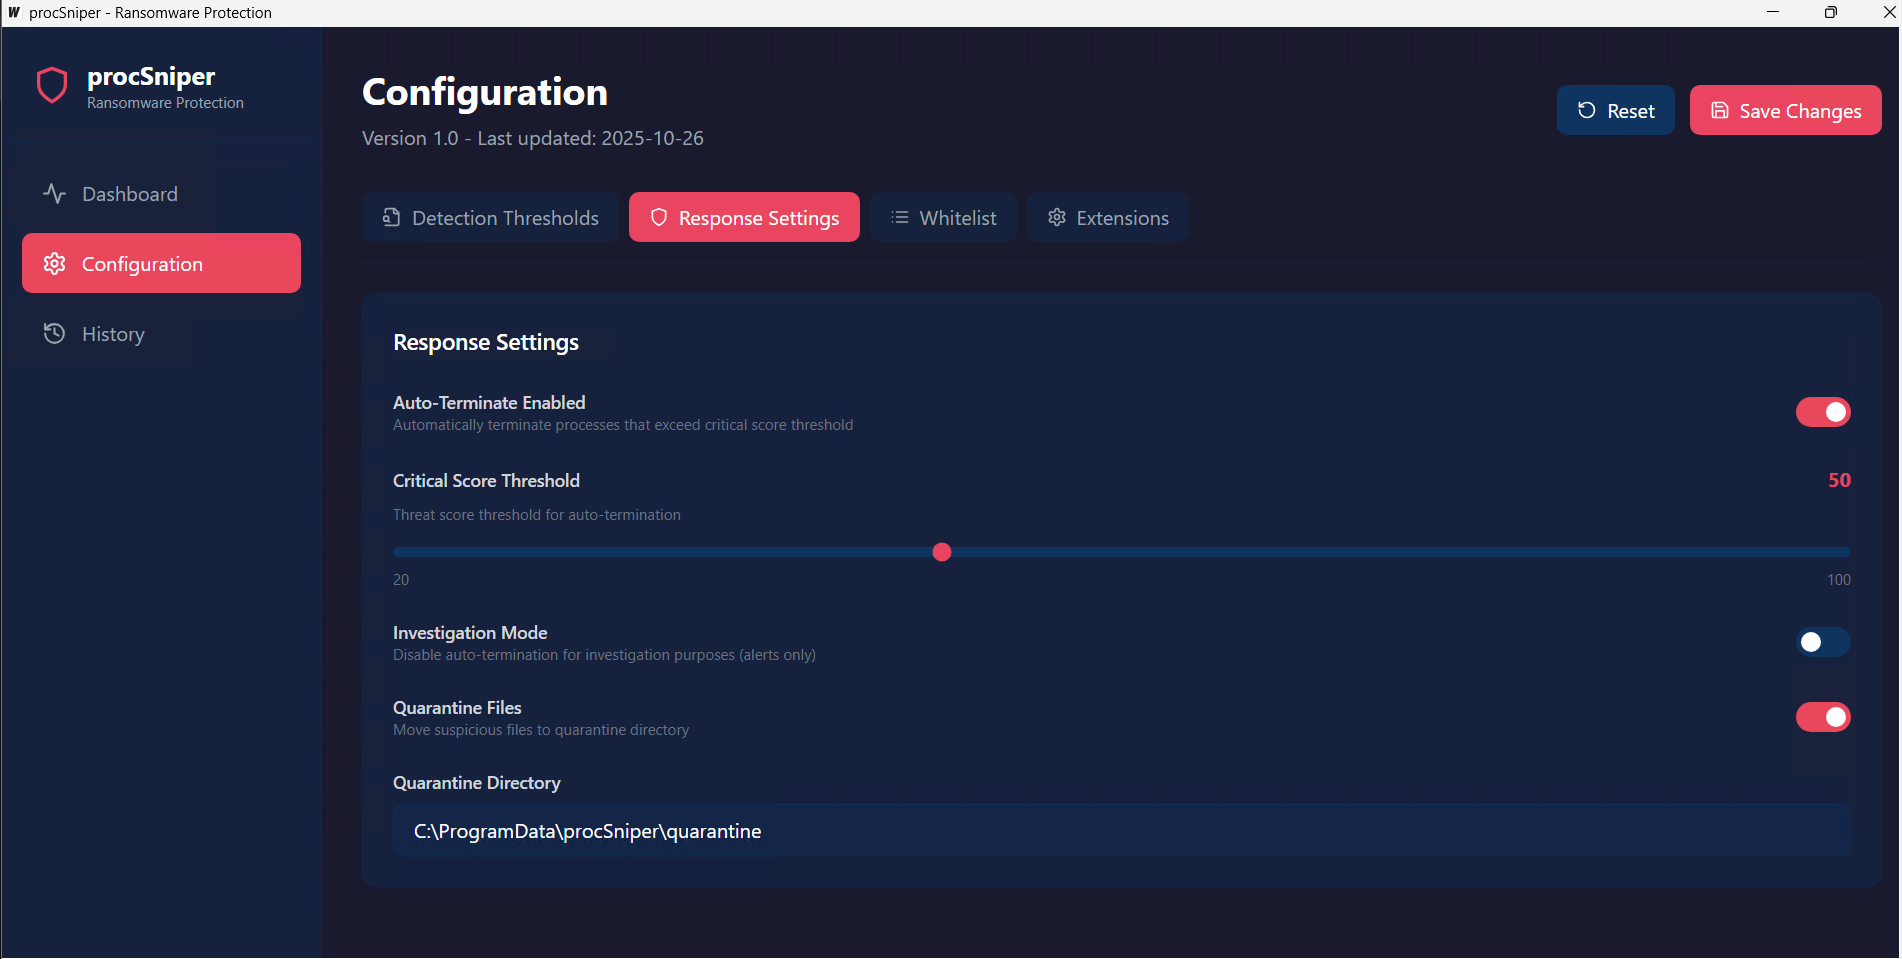
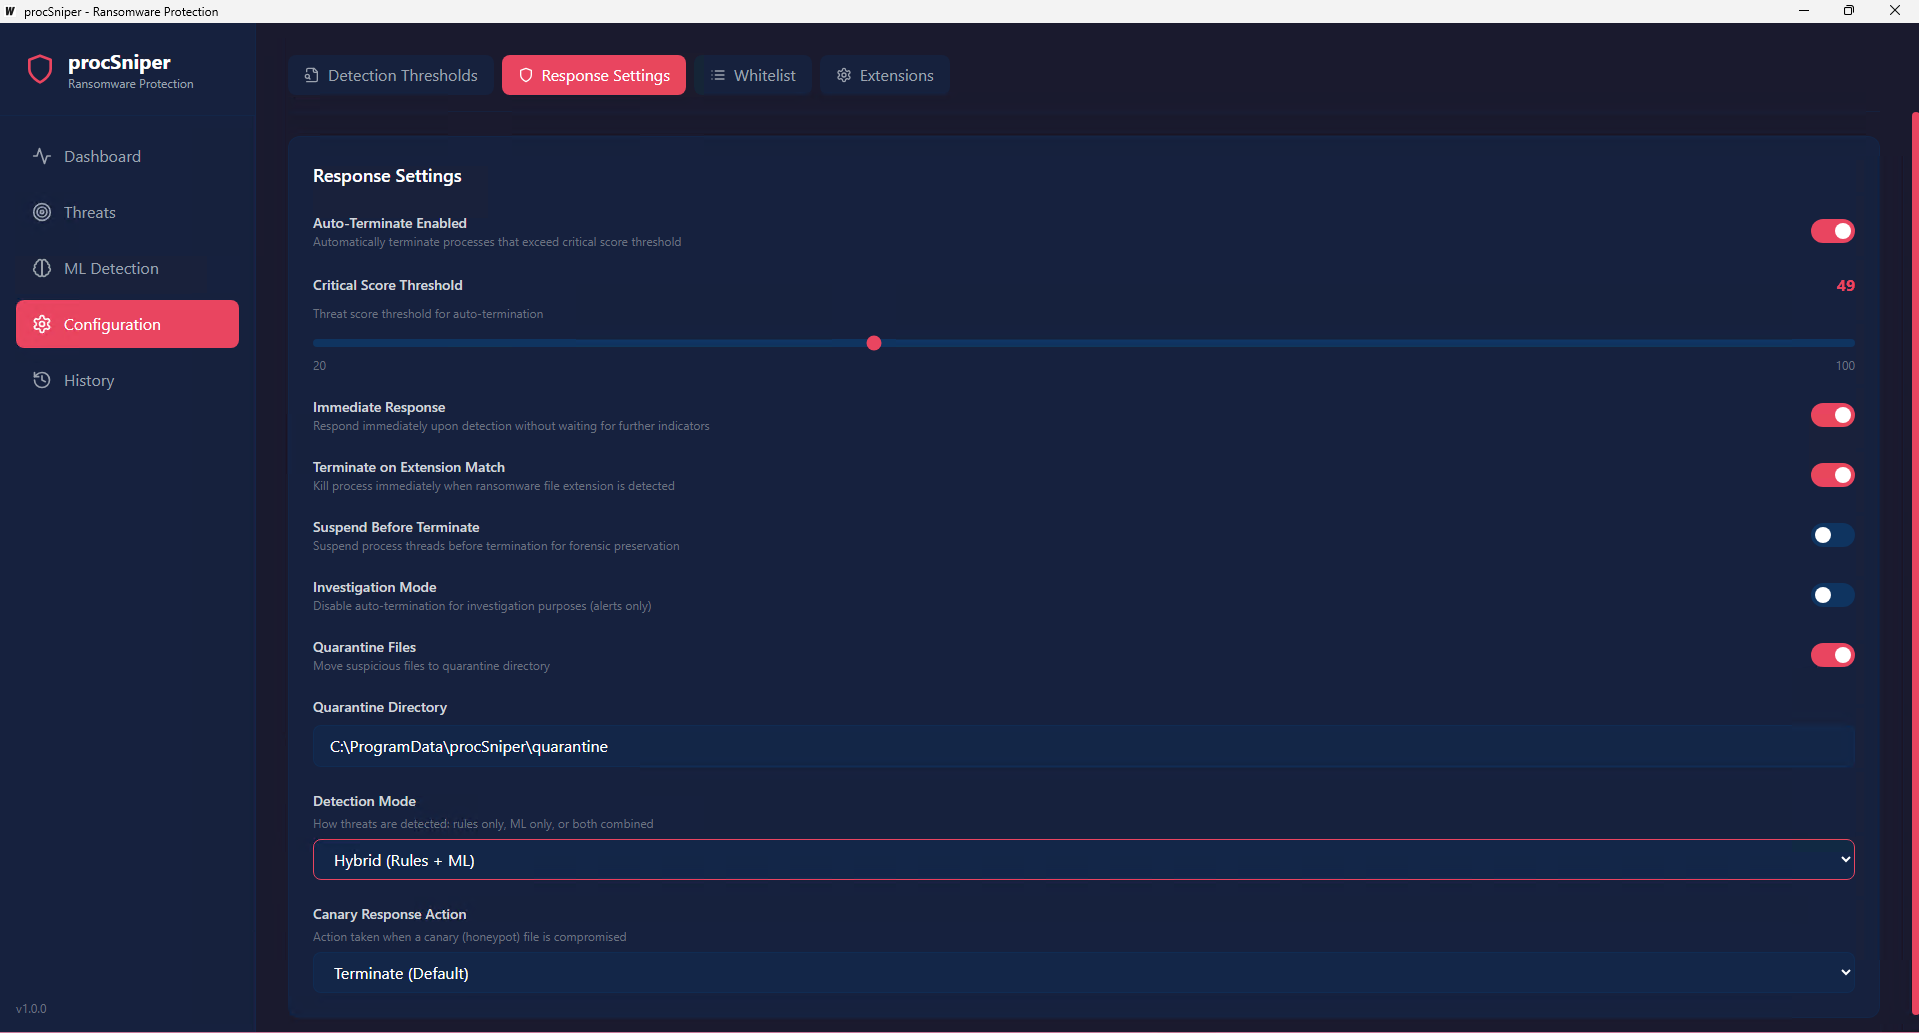
fix:add screenshot on readme

diff --git a/README.md b/README.md
@@ -2,6 +2,9 @@
 
 Windows real-time behavioral ransomware detection and response for defenders who need deterministic, low-latency decisions on high-volume endpoint telemetry.
 
+![ProcSniper Dashboard Protection](screenshots/dashboard-gui.png)
+![ProcSniper Dashboard Protection](screenshots/dashboard-gui-config.png)
+
 ## Abstract
 
 Ransomware defense is not only a classification problem. It is a timing problem where detection quality and response latency must hold under noisy, bursty endpoint telemetry, because delayed confidence often means delayed containment.
@@ -14,7 +17,10 @@ The current recommended model line (v2) is a 2-class ONNX model (`benign`, `rans
 
 For defenders, this translates into practical host-level disruption capability with explicit tradeoff controls: real-time behavioral monitoring, configurable `rules_only`/`hybrid`/`ml_only` operation, canary-backed response actions, and clear operational boundaries around low-and-slow campaigns, network-only visibility gaps, and kernel- or firmware-level threats outside current userland scope.
 
+
 ## Why ML + Hybrid Mode
+
+![ProcSniper Machine Learning](screenshots/procSniper-gui-ml.png)
 
 `hybrid` mode exists for teams that want ML augmentation without giving up deterministic rule-path alerts.
 
